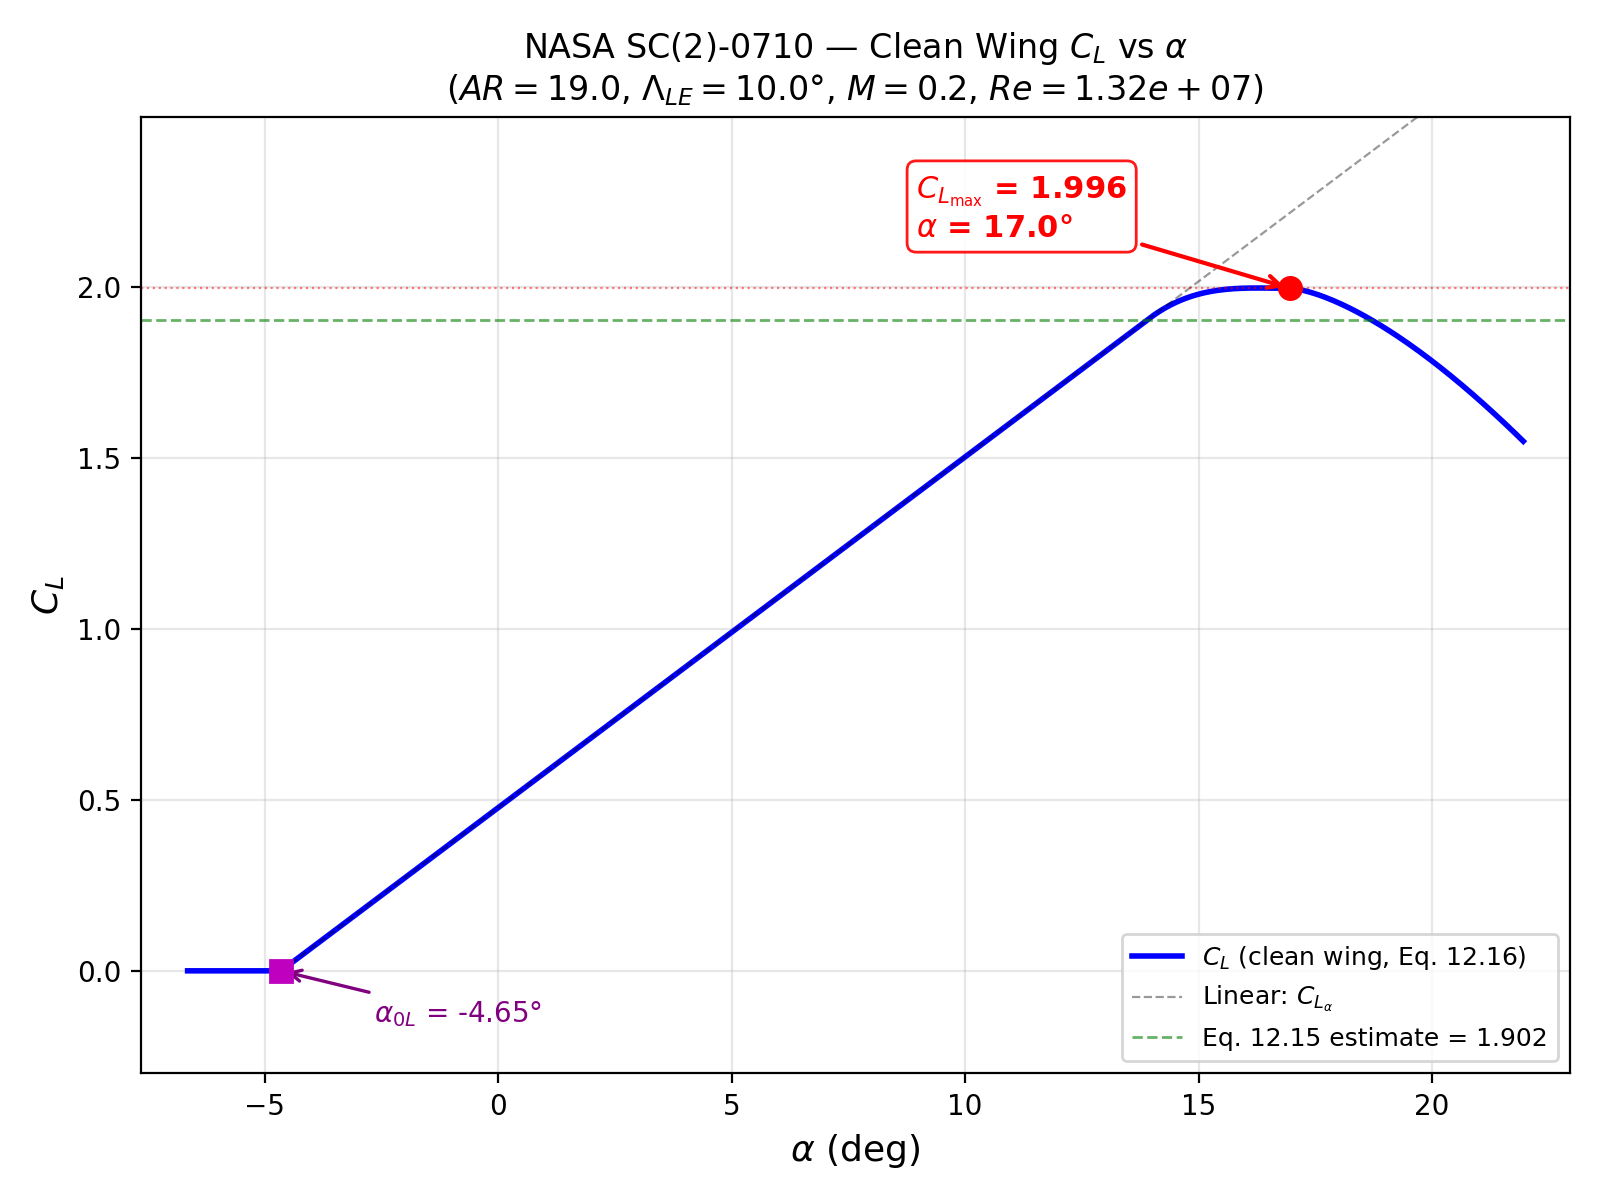
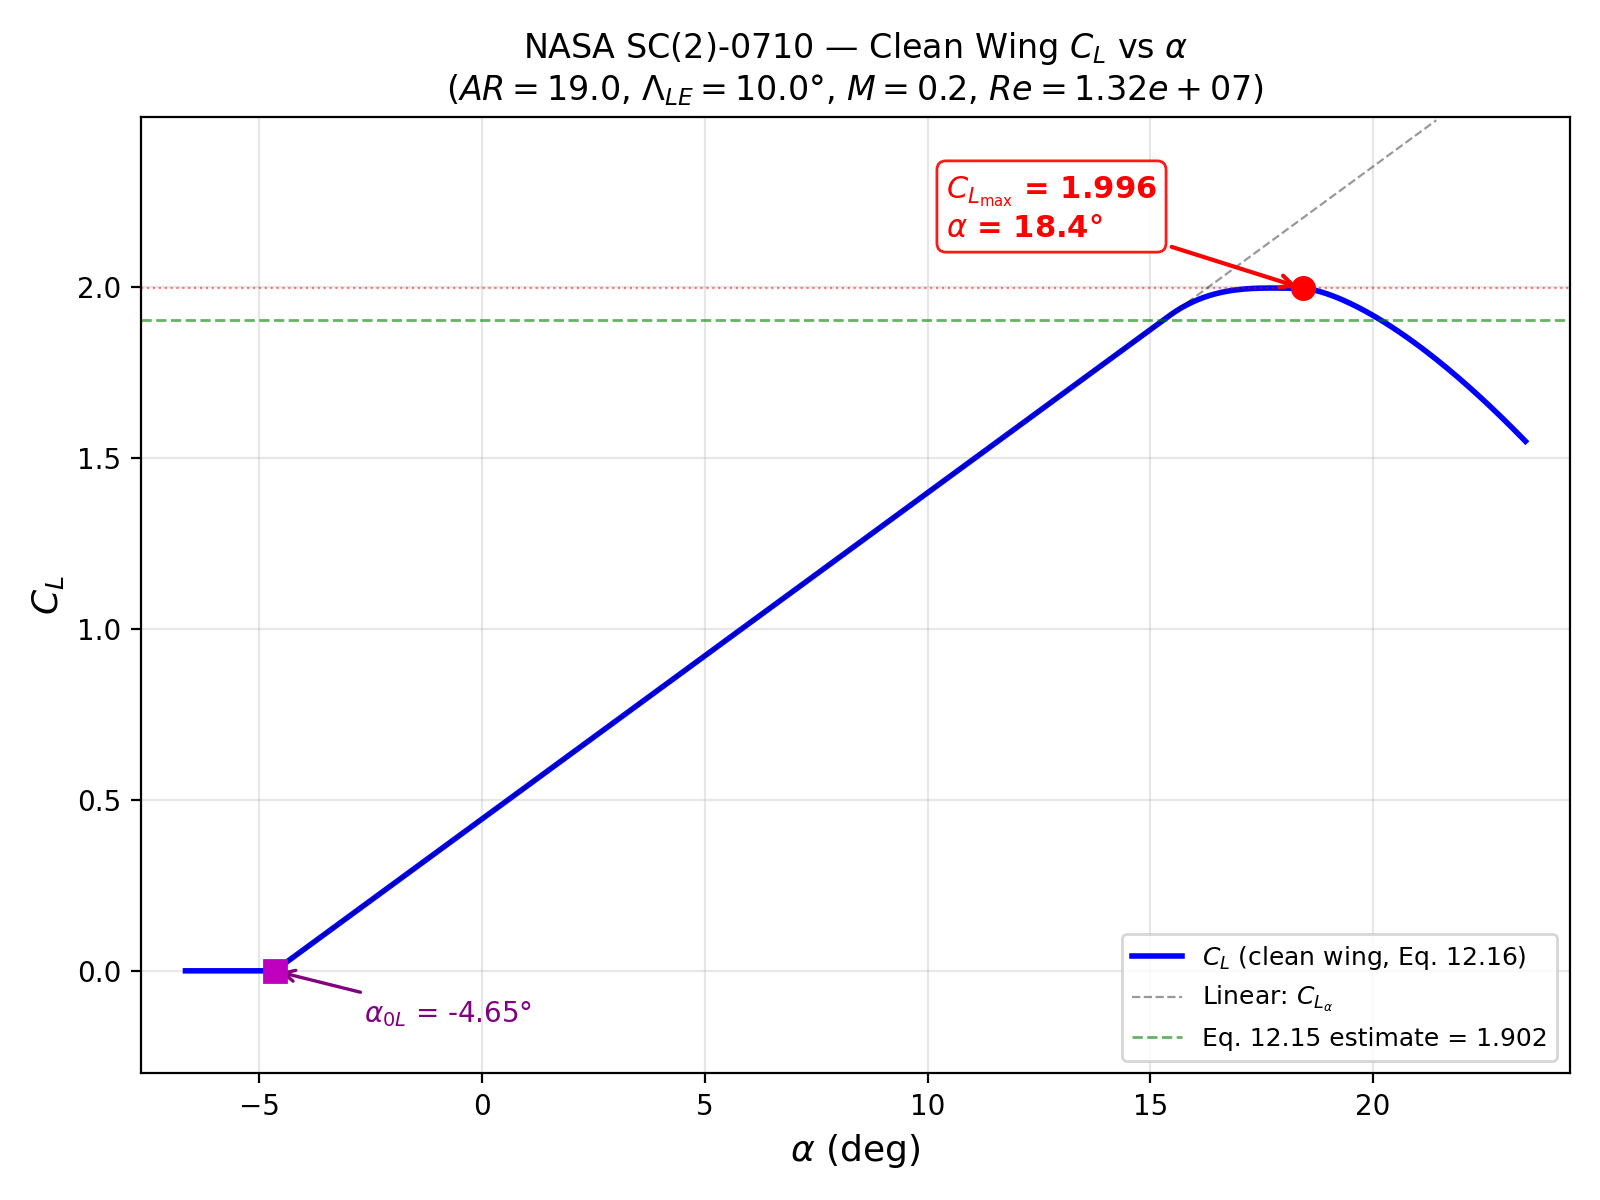
added a cap to eta (etamax = 0.95)

diff --git a/clean_wing.py b/clean_wing.py
@@ -89,7 +89,10 @@ beta    = np.sqrt(beta_sq)
 
 # η from Eq. 12.8: convert 2-D slope to per-radian first
 cl_alpha_2d_rad = cl_alpha_2d * (180.0 / np.pi)                   # [per radian]
-eta = cl_alpha_2d_rad / (2 * np.pi / beta)                         # Eq. 12.8
+eta_raw = cl_alpha_2d_rad / (2 * np.pi / beta)   # Eq. 12.8 (raw)
+eta = min(eta_raw, 0.95)                          # Raymer cap
+if eta_raw > 1.0:
+    print(f"  [Note] η_raw = {eta_raw:.4f} > 1; capping at 0.95 per Raymer") # Eq. 12.8
 
 # Full Eq. 12.6
 A = AR
